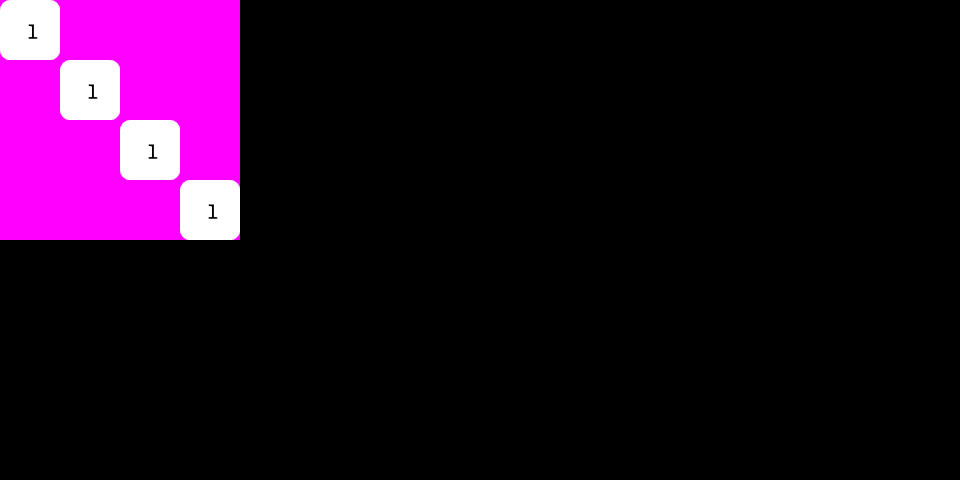
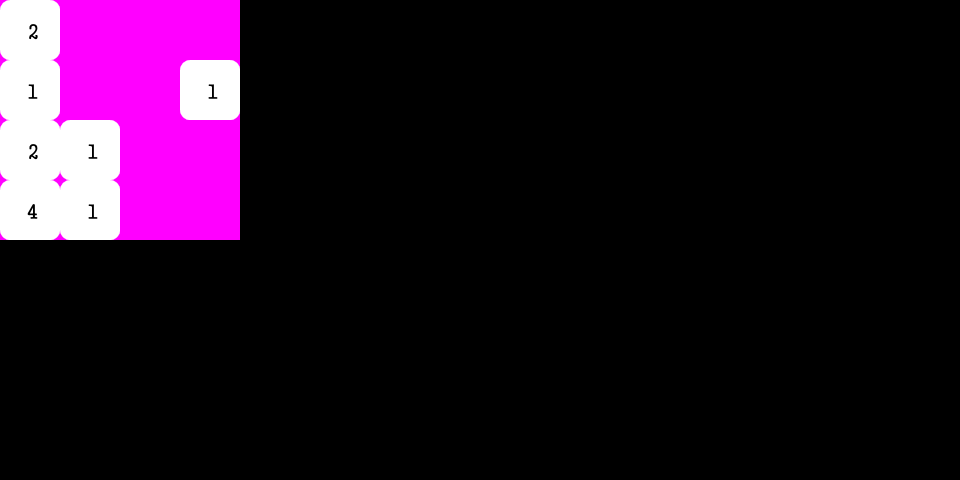
2048 (left comple)

Changed region(s): [[0.0, 0.125, 0.1875, 0.5], [0.1875, 0.375, 0.25, 0.5], [0.1875, 0.125, 0.25, 0.25]]

diff --git a/TowerDefense/game/2048.cpp b/TowerDefense/game/2048.cpp
@@ -3,11 +3,6 @@
 #include "Loading.h"
 #include "Menu.h"
 
-struct BLOCK
-{
-	int number;
-	iImage* img; // 1, 2, 4, 8, 16, 32, 64, 128, 256, 512, 1024, 2048, 4096;
-};
 
 BLOCK* _block; // 실제로 각위치마다 존재하는 블럭
 BLOCK** block; // 현재 화면에 있는 모든 블럭의 주소 없을시 주소 NULL임
@@ -81,7 +76,16 @@ void draw2048(float dt)
 			b->img->paint(dt, p);
 		}
 	}
-	
+
+	uint32 key = getKeyDown();
+	int move = -1;
+	if (key & keyboard_left) move = 0;
+	else if (key & keyboard_right) move = 1;
+	else if (key & keyboard_up) move = 2;
+	else if (key & keyboard_down) move = 3;
+
+	if(move!= -1)
+		moveBlock(move);
 }
 
 void key2048(iKeyState stat, iPoint point)
@@ -114,4 +118,159 @@ void addBlock(int x, int y, int num)
 	b->img->setTexAtIndex(i);
 
 
+}
+
+void combineBlock(BLOCK* b)
+{
+	b->number = b->number << 1;
+	int i, num = b->number;
+	for (i= - 1; num > 0; i++)
+		num = num >> 1;
+
+	b->img->setTexAtIndex(i);
+	b->combine = true;
+}
+
+void copyBlock(BLOCK* to, BLOCK* from)
+{
+	to->number = from->number;
+	int i, num = to->number;
+	for (i = -1; num > 0; i++)
+		num = num >> 1;
+	to->img->setTexAtIndex(i);
+	to->combine = from->combine;
+}
+
+void moveBlock(int direction)
+{
+	int i, num = T_NUM_X * T_NUM_Y;
+	for (i = 0; i < num; i++)
+	{
+		if (block[i])
+			block[i]->combine = false;
+	}
+	int add;
+
+	if (direction == 0) // left 
+	{
+		for (int j = 0; j < T_NUM_Y; j++)
+		{
+			for (int i = T_NUM_X - 1; i > 0; i--)
+			{
+				BLOCK* b = block[T_NUM_X * j + i];
+				if (b == NULL) continue;
+
+				if (b->combine) continue; // 이미 한번 합쳐졌으면 더이상 합치면 안됨!
+
+				for (int k = i - 1; i > -1; i--)
+				{
+					BLOCK* a = block[T_NUM_X * j + k];
+					if (a)
+					{
+						if (b->number == a->number)
+						{
+							combineBlock(a);
+							block[T_NUM_X * j + i] = NULL; // 오브젝트 풀에서 가져오므로 걍 NULL 시키면된다.
+						}
+
+						break;
+					}
+				}
+			}
+
+			for (int i = 0; i < T_NUM_X - 1; i++)
+			{
+				BLOCK* b = block[T_NUM_X * j + i];
+				if (b == NULL)
+				{
+					bool exist = false;
+					for (int k = i + 1; k < T_NUM_X; k++)
+					{
+						BLOCK* a = block[T_NUM_X * j + k];
+						if (a)
+						{
+
+							copyBlock(block[T_NUM_X * j + i] = &_block[T_NUM_X * j + i], a);
+							
+							block[T_NUM_X * j + k] = NULL; //a =NULL;
+
+							if(block[T_NUM_X*j +i-1 ] != NULL)
+								if (block[T_NUM_X * j + i]->number == block[T_NUM_X * j + i - 1]->number)
+								{
+									combineBlock(block[T_NUM_X * j + i - 1]);
+									block[T_NUM_X * j + i] = NULL;
+								}
+
+							exist = true;
+							break;
+						}
+
+					}
+					if (exist == false)
+						break;
+				}
+
+				
+			}
+
+			// 남은 자리땡겨밀어내기
+		}
+
+		for (int i = T_NUM_X - 1; i > -1; i--)
+		{
+			bool exist = false;
+
+			for (int j = 0; j < T_NUM_Y; j++)
+			{
+				if (block[T_NUM_X * j + i] == NULL)
+				{
+					exist = true;
+					add = i; // 가로로 몇번째인지...찾음
+					break;
+				}
+			}
+
+			if (exist)
+				break;
+
+		}
+
+		while (1)
+		{
+			int n = random() % T_NUM_Y;
+			if (block[T_NUM_X * n + add] == NULL) // 만약 세로에서 랜덤으로 선택해서 그 곳에 값이 비어있다면 거기로 지정함!
+			{
+				add = T_NUM_X * n + add;
+				break;
+			}
+		}
+
+		
+
+	}
+	else if (direction == 1) // right
+	{
+		
+	}
+	else if (direction == 2) // up
+	{
+
+	}
+	else if (direction == 3) // down
+	{
+
+	}
+
+
+	num = blockNumberMax;
+	for (i = -1; num > 0; i++)
+		num = num >> 1;
+
+	i++;
+	i = random() % i;
+	if (i < 1)
+		i = 1;
+
+	addBlock(add % T_NUM_X, add / T_NUM_X, i);
+	
 }

diff --git a/TowerDefense/game/2048.h b/TowerDefense/game/2048.h
@@ -8,6 +8,12 @@ void draw2048(float dt);
 void key2048(iKeyState stat, iPoint point);
 
 
+struct BLOCK
+{
+	int number;
+	iImage* img; // 1, 2, 4, 8, 16, 32, 64, 128, 256, 512, 1024, 2048, 4096;
+	bool combine;
+};
 
 /*
 원래는 4 * 4 판 
@@ -31,3 +37,6 @@ Rule /left, right, up, down/
 #define T_SIZE_H 60
 
 void addBlock(int x, int y, int num);
+void combineBlock(BLOCK* b);
+void copyBlock(BLOCK* to, BLOCK* from);
+void moveBlock(int direction);
